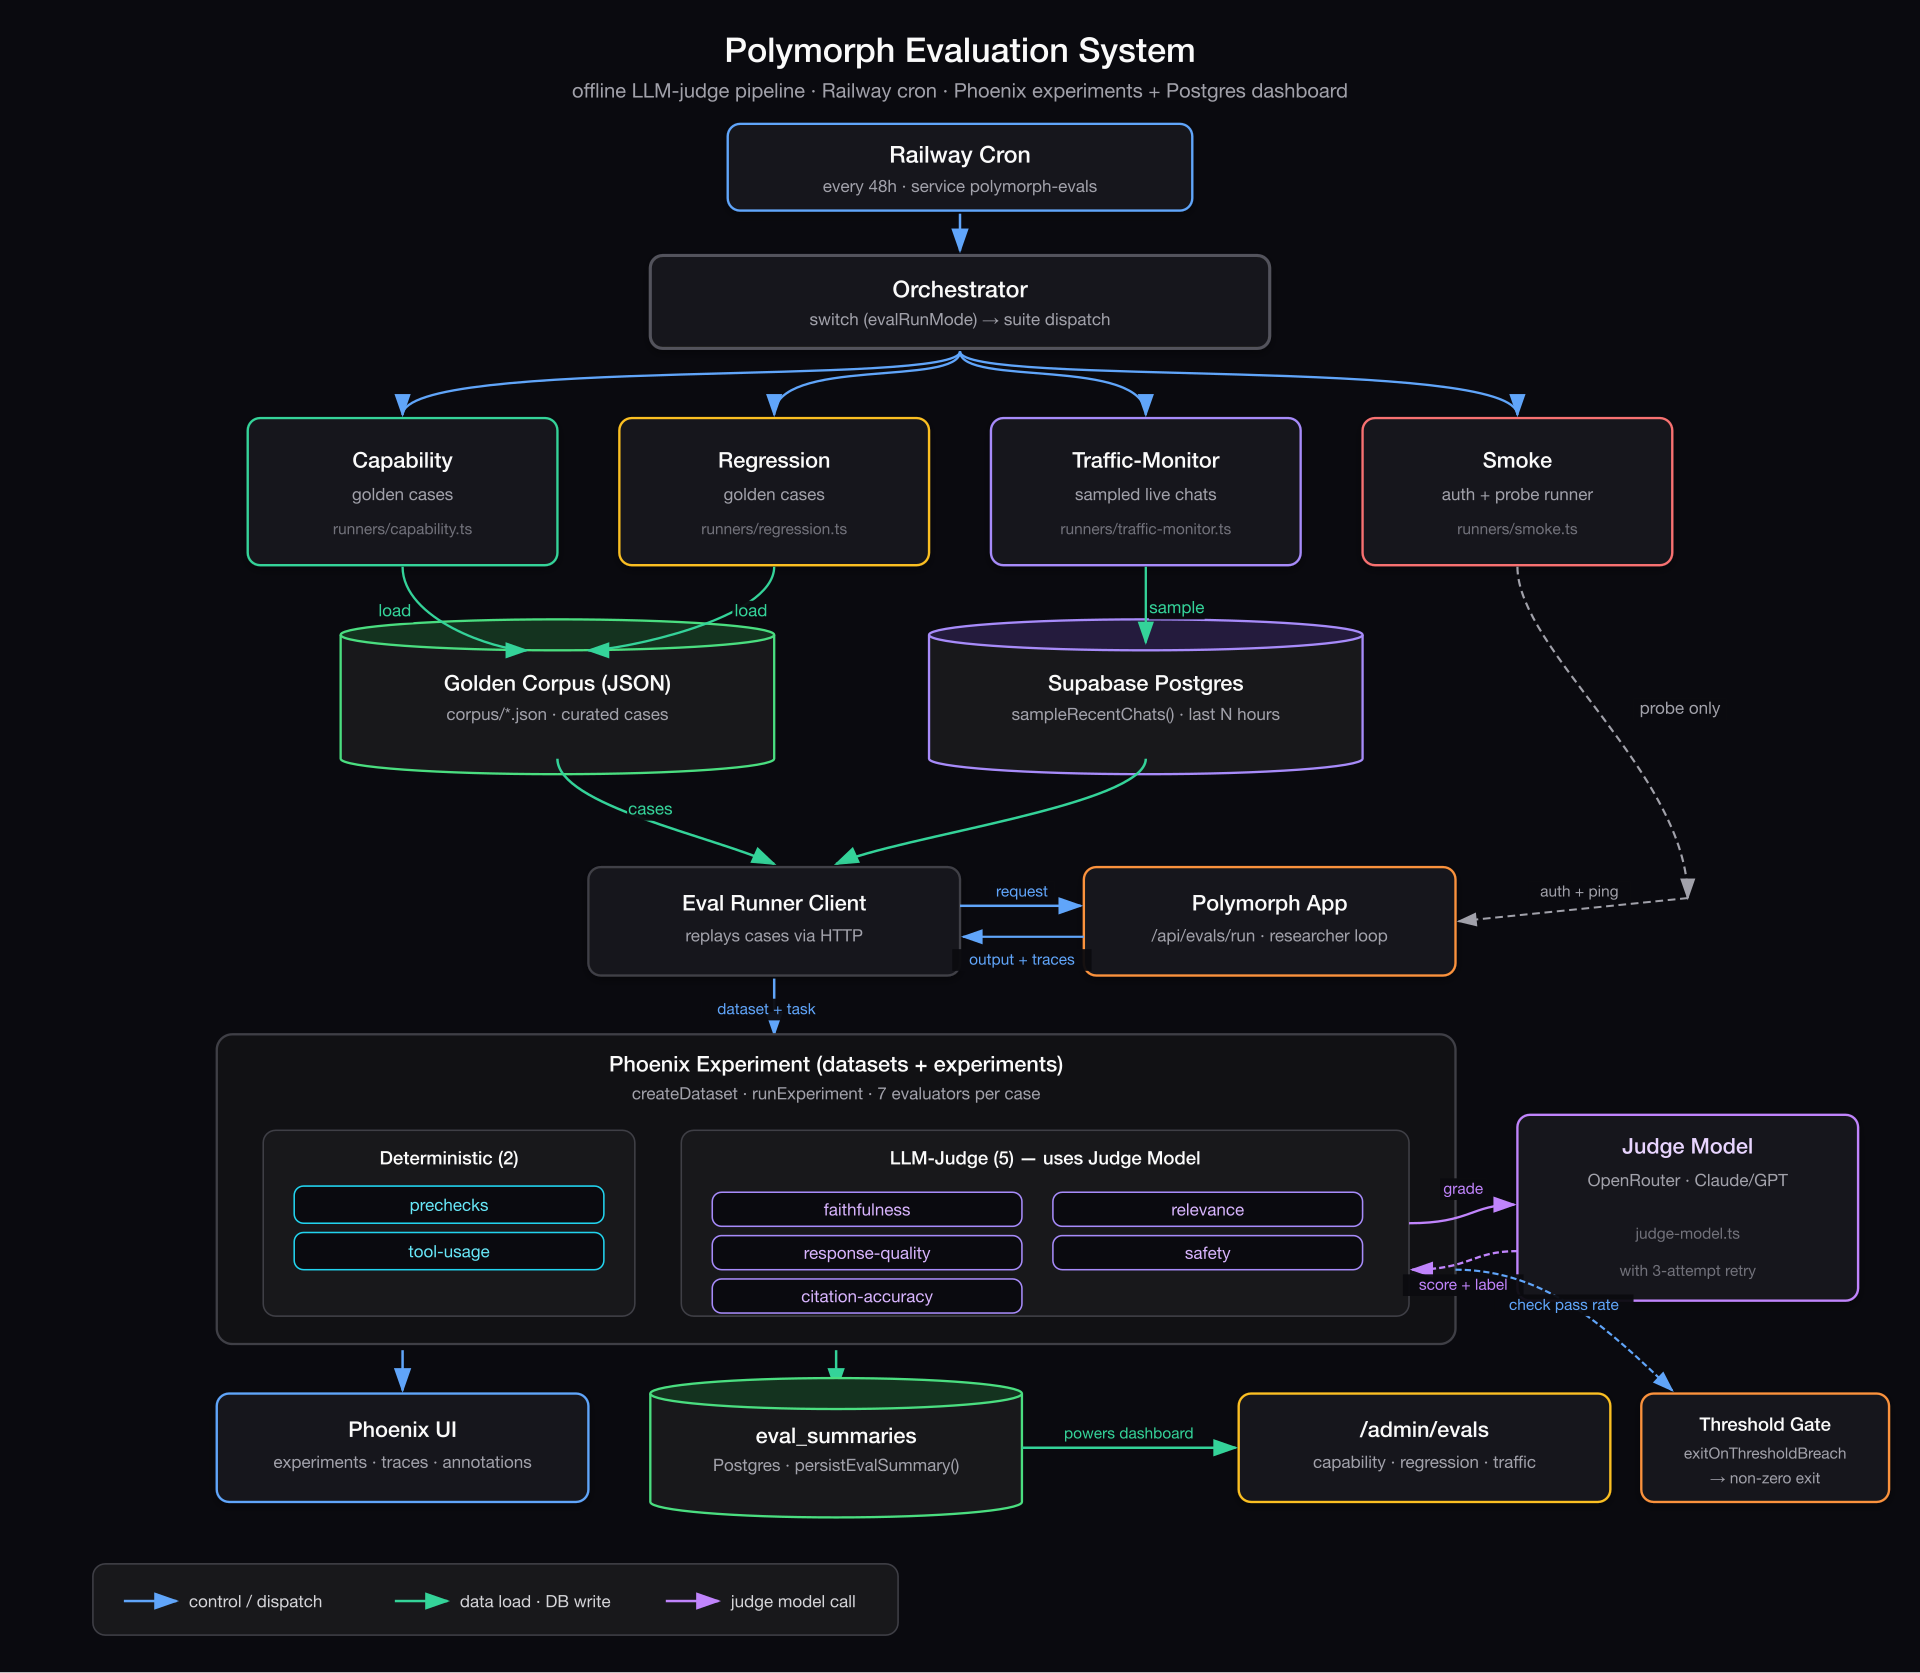
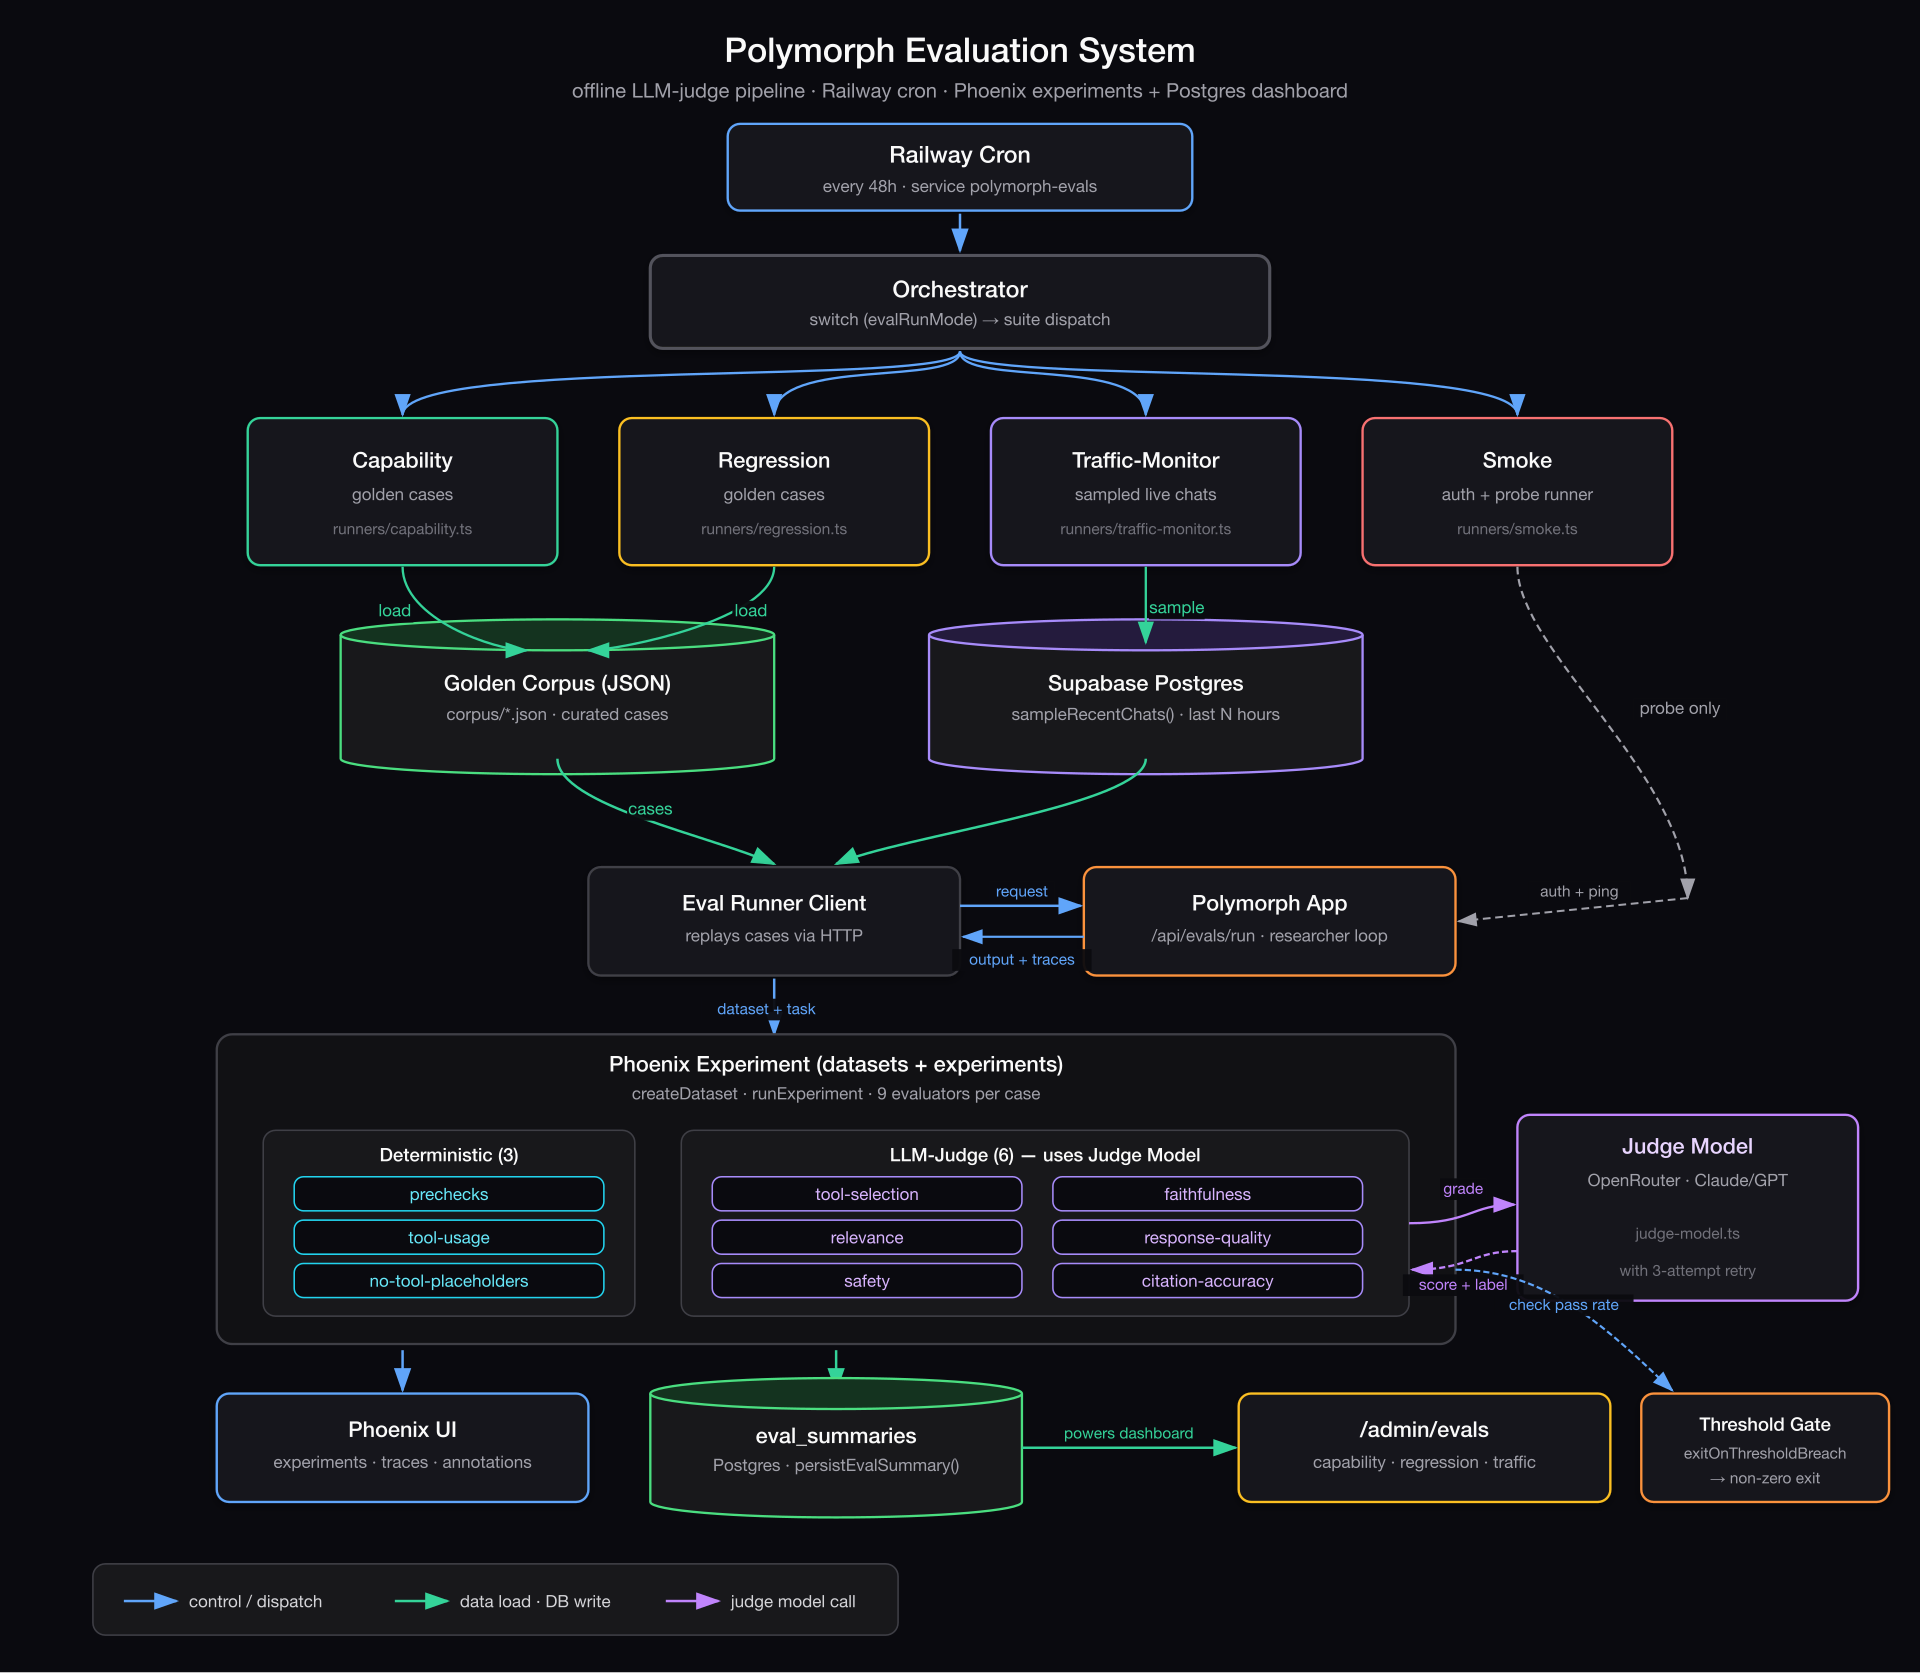
docs: correct evaluator counts and smoke-suite role in eval diagram
The Evaluation diagram and README alt-text misstated the eval pipeline:

- Evaluator count: judged suites run 9 evaluators per case, not 7. Three
  are deterministic/code (prechecks, tool-usage, no-tool-placeholders)
  and six are LLM-judge (tool-selection, faithfulness, relevance,
  response-quality, safety, citation-accuracy). Source:
  buildExperimentEvaluators in services/evals/src/runners/shared.ts
  returns 9 evaluators, asserted by shared.test.ts
  (expect(evaluators).toHaveLength(9)). The text and SVG labels
  previously claimed "two deterministic and five LLM-judge".

- Smoke suite: smoke is NOT scored by evaluators or persisted. It only
  authenticates and probes /api/chat as a health check. types.ts defines
  PersistedEvalSuite = Exclude<EvalSuite, 'smoke'>, and orchestrator.ts
  invokes runSmokeSuite() outside runAndRecord (no Phoenix experiment, no
  persistEvalSummary). The alt-text wrongly lumped smoke into the
  score-then-persist flow; reworded to describe smoke as a separate
  health probe. The SVG already depicted smoke correctly (dashed
  probe-only path), so only the count labels needed editing there.

Updated README alt-text plus both SVGs (light + dark), and re-exported
both PNGs at 1920px width via rsvg-convert to match the existing density.

Changed region(s): [[0.375, 0.6838, 0.7188, 0.777], [0.1562, 0.6838, 0.3125, 0.777]]

diff --git a/README.md b/README.md
@@ -74,7 +74,7 @@
     <picture>
       <source media="(prefers-color-scheme: dark)" srcset="docs/assets/eval-system-dark.png">
       <source media="(prefers-color-scheme: light)" srcset="docs/assets/eval-system.png">
-      <img alt="Polymorph evaluation system: a Railway cron orchestrates four suites (capability, regression, traffic-monitor, smoke) that replay cases through the app, score them with two deterministic and five LLM-judge evaluators, then persist results to Phoenix and Postgres for the admin dashboard." src="docs/assets/eval-system.png" width="960">
+      <img alt="Polymorph evaluation system: a Railway cron orchestrates three judged suites (capability, regression, traffic-monitor) that replay cases through the app, score them with three deterministic and six LLM-judge evaluators, then persist results to Phoenix and Postgres for the admin dashboard, plus a separate smoke suite that auths and probes /api/chat as a health check (not scored or persisted)." src="docs/assets/eval-system.png" width="960">
     </picture>
   </a>
 </div>
